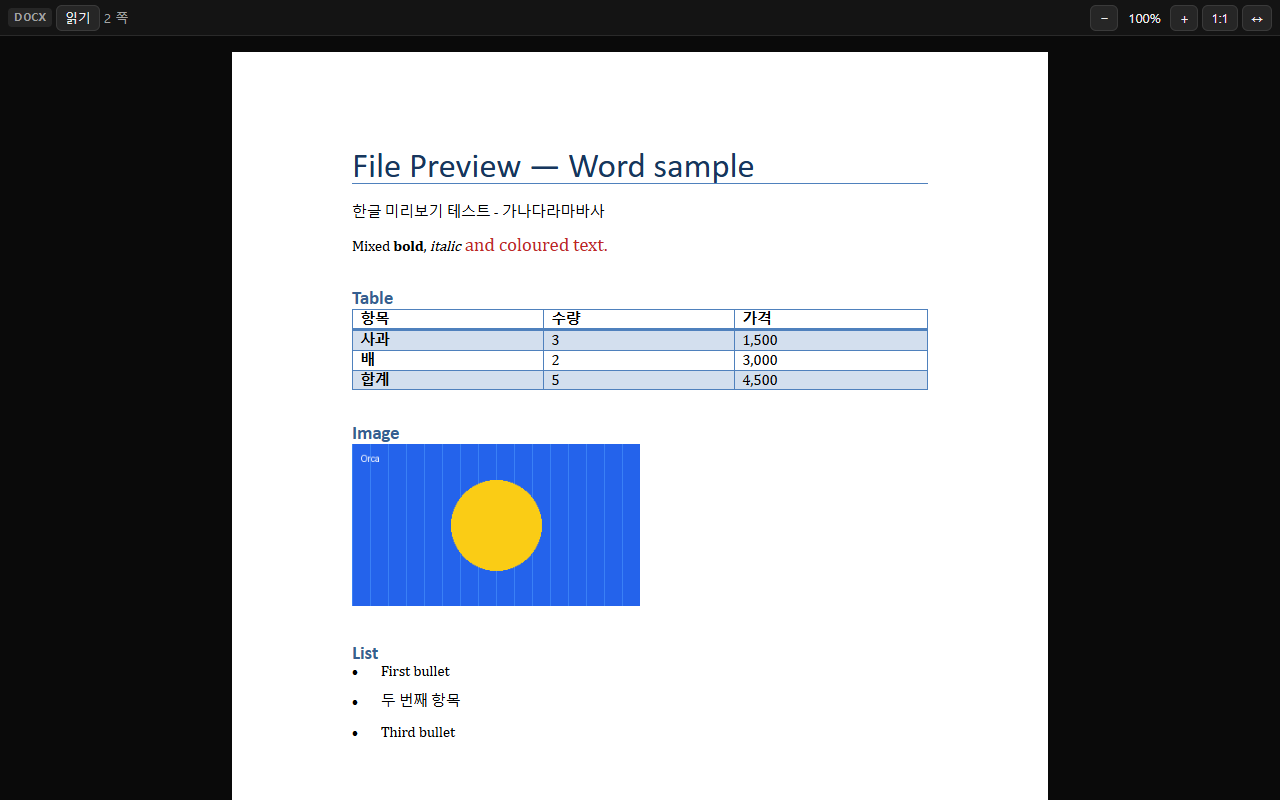
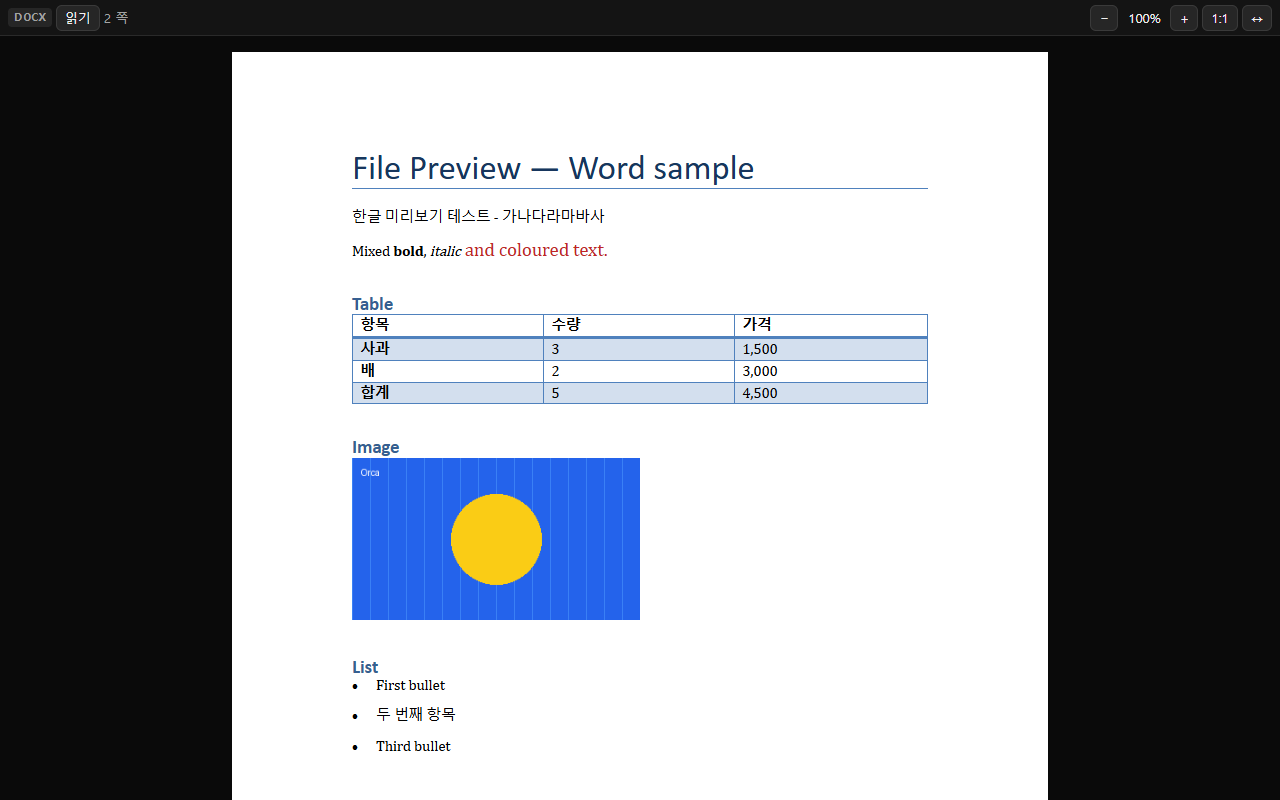
office: round-2 evidence and notes

Changed region(s): [[0.25, 0.1875, 0.75, 0.6562], [0.25, 0.8125, 0.375, 0.9375], [0.25, 0.6875, 0.5, 0.7812]]

diff --git a/docs/evidence/office/results.md b/docs/evidence/office/results.md
@@ -1,44 +1,44 @@
 # Harness results
 
-22 / 22 passed · 2026-11-12T06:14:31.897Z
+22 / 22 passed · 2026-11-12T06:47:20.613Z
 
 | Result | Profile | File | State | Time (ms) | Notes |
 | --- | --- | --- | --- | ---: | --- |
-| ✅ | desktop-dark | `broken.docx` | error (expect error) | 827 | console: Failed to load resource: the server responded with a status of 404 (Not Found)<br>console: Error: Corrupted zip: can't find end of central directory
-    at f.readEndOfCentral (http://127.0.0.1:4538/plugin/vendor/docx.js:2:32683)
+| ✅ | desktop-dark | `broken.docx` | error (expect error) | 821 | console: Failed to load resource: the server responded with a status of 404 (Not Found)<br>console: Error: Corrupted zip: can't find end of central directory
+    at f.readEndOfCentral (http://127.0.0.1:6689/plugin/vendor/docx.js:2:32683)
     at f.load<br>console: PreviewError: docx
-    at Module.render (http://127.0.0.1:4538/plugin/editor/renderers/docx.ts:65:11)
-    at async show (http://127.0.0.1:4538/plugin/e |
-| ✅ | desktop-dark | `broken.pptx` | error (expect error) | 771 | console: Error: invalid zip data
-    at Lr (http://127.0.0.1:4538/plugin/vendor/zip.js:1:5079)
-    at OoxmlPackage.open (http://127.0.0.1:4538/plugin/editor/ren<br>console: PreviewError: pptx
-    at Module.render (http://127.0.0.1:4538/plugin/editor/renderers/pptx.ts:45:11)
-    at show (http://127.0.0.1:4538/plugin/editor/ |
-| ✅ | desktop-dark | `sample-docx.doc` | ready (expect ready) | 824 |  |
-| ✅ | desktop-dark | `sample-large.xlsx` | ready (expect ready) | 981 |  |
-| ✅ | desktop-dark | `sample-pptx.ppt` | ready (expect ready) | 752 |  |
-| ✅ | desktop-dark | `sample-shapes.pptx` | ready (expect ready) | 765 |  |
-| ✅ | desktop-dark | `sample.docx` | ready (expect ready) | 792 |  |
-| ✅ | desktop-dark | `sample.ods` | ready (expect ready) | 760 |  |
-| ✅ | desktop-dark | `sample.pptx` | ready (expect ready) | 765 |  |
-| ✅ | desktop-dark | `sample.xls` | ready (expect ready) | 772 |  |
-| ✅ | desktop-dark | `sample.xlsx` | ready (expect ready) | 775 |  |
-| ✅ | mobile-light | `broken.docx` | error (expect error) | 770 | console: Error: Corrupted zip: can't find end of central directory
-    at f.readEndOfCentral (http://127.0.0.1:4538/plugin/vendor/docx.js:2:32683)
+    at Module.render (http://127.0.0.1:6689/plugin/editor/renderers/docx.ts:72:11)
+    at async show (http://127.0.0.1:6689/plugin/e |
+| ✅ | desktop-dark | `broken.pptx` | error (expect error) | 773 | console: Error: invalid zip data
+    at Lr (http://127.0.0.1:6689/plugin/vendor/zip.js:1:5079)
+    at OoxmlPackage.open (http://127.0.0.1:6689/plugin/editor/ren<br>console: PreviewError: pptx
+    at Module.render (http://127.0.0.1:6689/plugin/editor/renderers/pptx.ts:44:11)
+    at show (http://127.0.0.1:6689/plugin/editor/ |
+| ✅ | desktop-dark | `sample-docx.doc` | ready (expect ready) | 888 |  |
+| ✅ | desktop-dark | `sample-large.xlsx` | ready (expect ready) | 1108 |  |
+| ✅ | desktop-dark | `sample-pptx.ppt` | ready (expect ready) | 782 |  |
+| ✅ | desktop-dark | `sample-shapes.pptx` | ready (expect ready) | 775 |  |
+| ✅ | desktop-dark | `sample.docx` | ready (expect ready) | 823 |  |
+| ✅ | desktop-dark | `sample.ods` | ready (expect ready) | 896 |  |
+| ✅ | desktop-dark | `sample.pptx` | ready (expect ready) | 761 |  |
+| ✅ | desktop-dark | `sample.xls` | ready (expect ready) | 882 |  |
+| ✅ | desktop-dark | `sample.xlsx` | ready (expect ready) | 880 |  |
+| ✅ | mobile-light | `broken.docx` | error (expect error) | 773 | console: Error: Corrupted zip: can't find end of central directory
+    at f.readEndOfCentral (http://127.0.0.1:6689/plugin/vendor/docx.js:2:32683)
     at f.load<br>console: PreviewError: docx
-    at Module.render (http://127.0.0.1:4538/plugin/editor/renderers/docx.ts:65:11)
-    at async show (http://127.0.0.1:4538/plugin/e |
-| ✅ | mobile-light | `broken.pptx` | error (expect error) | 768 | console: Error: invalid zip data
-    at Lr (http://127.0.0.1:4538/plugin/vendor/zip.js:1:5079)
-    at OoxmlPackage.open (http://127.0.0.1:4538/plugin/editor/ren<br>console: PreviewError: pptx
-    at Module.render (http://127.0.0.1:4538/plugin/editor/renderers/pptx.ts:45:11)
-    at show (http://127.0.0.1:4538/plugin/editor/ |
-| ✅ | mobile-light | `sample-docx.doc` | ready (expect ready) | 811 |  |
-| ✅ | mobile-light | `sample-large.xlsx` | ready (expect ready) | 968 |  |
-| ✅ | mobile-light | `sample-pptx.ppt` | ready (expect ready) | 758 |  |
-| ✅ | mobile-light | `sample-shapes.pptx` | ready (expect ready) | 763 |  |
-| ✅ | mobile-light | `sample.docx` | ready (expect ready) | 825 |  |
-| ✅ | mobile-light | `sample.ods` | ready (expect ready) | 772 |  |
-| ✅ | mobile-light | `sample.pptx` | ready (expect ready) | 780 |  |
-| ✅ | mobile-light | `sample.xls` | ready (expect ready) | 771 |  |
-| ✅ | mobile-light | `sample.xlsx` | ready (expect ready) | 775 |  |
+    at Module.render (http://127.0.0.1:6689/plugin/editor/renderers/docx.ts:72:11)
+    at async show (http://127.0.0.1:6689/plugin/e |
+| ✅ | mobile-light | `broken.pptx` | error (expect error) | 777 | console: Error: invalid zip data
+    at Lr (http://127.0.0.1:6689/plugin/vendor/zip.js:1:5079)
+    at OoxmlPackage.open (http://127.0.0.1:6689/plugin/editor/ren<br>console: PreviewError: pptx
+    at Module.render (http://127.0.0.1:6689/plugin/editor/renderers/pptx.ts:44:11)
+    at show (http://127.0.0.1:6689/plugin/editor/ |
+| ✅ | mobile-light | `sample-docx.doc` | ready (expect ready) | 900 |  |
+| ✅ | mobile-light | `sample-large.xlsx` | ready (expect ready) | 1130 |  |
+| ✅ | mobile-light | `sample-pptx.ppt` | ready (expect ready) | 773 |  |
+| ✅ | mobile-light | `sample-shapes.pptx` | ready (expect ready) | 801 |  |
+| ✅ | mobile-light | `sample.docx` | ready (expect ready) | 864 |  |
+| ✅ | mobile-light | `sample.ods` | ready (expect ready) | 898 |  |
+| ✅ | mobile-light | `sample.pptx` | ready (expect ready) | 781 |  |
+| ✅ | mobile-light | `sample.xls` | ready (expect ready) | 885 |  |
+| ✅ | mobile-light | `sample.xlsx` | ready (expect ready) | 876 |  |

diff --git a/docs/evidence/office/NOTES.md b/docs/evidence/office/NOTES.md
@@ -161,3 +161,60 @@ contains `new Function`, on a path taken only when a string (not a function) is 
 `plugin/editor/renderers/office/{formula,formula.test,fonts,fonts.test}.ts` (new), `sheet.ts`, `docx.ts`,
 `pptx.ts`, `office/slides.ts`, `office/docx-fixes.ts` (new, R1-12/13/11), `plugin/vendor/sheet.d.ts` (adds `SSF.format` and `CellObject.z`; the bundle
 already exported SSF, so `npm run vendor` was not needed). No shared core files changed.
+
+## Round 2 fixes
+
+Verification: harness `--only docx,pptx,xls,ods --profiles desktop-dark,mobile-light` **22/22** (normal) and
+**22/22** with `--no-raf`; fuzz `node tools/make-fuzz.mjs && node tools/harness/run.mjs --dir samples/fuzz --fuzz
+--no-shots --profiles desktop-dark --timeout 15000 --only docx,pptx,xls,ods` → **70/70** (every damaged file ends
+ready or error, no timeouts, no page errors). Unit tests (`orca plugin test` on a C: copy): **24/24**.
+
+### R2-16 Damaged spreadsheets froze the page
+- SheetJS now parses in a module Web Worker, `plugin/editor/renderers/office/sheet-worker.js` (plain JS, so it
+  needs no TypeScript transpile; loaded with `new Worker(new URL('./office/sheet-worker.js', import.meta.url),
+  { type: 'module' })`, same pattern as the PDF worker). The bytes are copied and transferred.
+- The worker returns only what the grid needs: sheet names/hidden flags and, per sheet, `!ref`, merges, column/row
+  info and the cell values (`t v w f z`) for the rendered window (5,000 × 200). The window is recorded so the formula
+  evaluator treats cells outside it as unknown (formula stays uncalculated) instead of blank.
+- Time limit 10 s (below the harness's 15 s): the worker is terminated and the friendly error
+  "too complex or damaged to read in time" is shown. Aborting a render terminates the worker.
+- The worker posts `{ loaded: true }` on start; only if it fails *before* that (script cannot load) does the renderer
+  fall back to parsing on the main thread. A crash after loading is reported as a damaged file.
+- `samples/fuzz/sample-large.flip.xlsx` now ends in the error state after ~10.8 s with the page responsive.
+- DOCX/PPTX: no fuzzed .docx/.pptx froze (all settle well under the limit), so they stay on the main thread.
+
+### R2-6 DOCX reading layout polish
+- Page breaks are a thin dashed separator: empty paragraphs that end a page are hidden (`markSectionTails`), the next
+  page's first element loses its space-before, and the section top padding is 12 px (the ~100 px band is gone).
+- Headings keep 6 px below them in reading mode; table cells get 3 px top/bottom padding.
+- docx-preview's `line-height: 1.00` (Word "single") becomes 1.15, closer to Word's single spacing; Korean text no
+  longer touches cell borders (both layouts).
+- List markers: the marker box keeps the hanging-indent width but no longer renders docx-preview's tab with
+  `white-space: pre` (which expanded it to 8 spaces), so the text starts at the hanging indent (18 pt for this file's
+  List Bullet: left 360 / hanging 360, i.e. bullet at the margin, as in Word).
+
+### R2-7 Tinted theme colours
+- New `office/color.ts` (pure, unit-tested in `color.test.ts`): `tint`/`shade` are applied in linear RGB like Office
+  (`c' = c·t + (1−t)`, `c' = c·s`), `lumMod`/`lumOff`/`lum`, `satMod`/`satOff`/`sat`, `hue*` in HSL, `alpha*`,
+  per-channel `red/green/blueMod/Off`, `gray`, `inv`, `comp`. Black + tint 75 % → `#898989` (slide 1 subtitle now
+  matches the PDF); accent1 `4472C4` lighter 40 % → `#8FAADC`, darker 25 % → `#2F5597` (Office's values).
+
+### R2-8 Preset text rectangles
+- Text in ellipse, roundRect, triangle, rtTriangle, diamond, parallelogram, hexagon, homePlate, chevron,
+  right/leftArrow is laid out in the preset's text rectangle (from presetShapeDefinitions), then the bodyPr insets.
+  "Tri" now sits inside the triangle's lower half. The fixture's chevron is small (1.8″ wide with the default 50 %
+  notch), so its text rectangle is only ~0.4″ wide and "Chevron" breaks across lines, as PowerPoint does for words
+  that do not fit; it no longer crosses the notch.
+
+### R2-9 Formula marker
+- The calculated-cell marker is a 5 × 5 px corner drawn in the cell's padding box (no-repeat, clipped), so it never
+  overlaps borders. Tooltip unchanged.
+
+### R2-5 Slide frame
+- PPTX slides: white slide, `box-shadow: 0 1px 4px rgba(0,0,0,.25)`, no current-slide outline (the double grey
+  border is gone), caption under the left edge "3" or "3 · title" in small muted text (hidden slides add a tag).
+
+### Changed files (round 2)
+`plugin/editor/renderers/{docx,pptx,sheet}.ts`, `office/{docx-fixes,drawing,formula,formula.test,slides}.ts`,
+new `office/{color,color.test}.ts` and `office/sheet-worker.js`, `plugin/vendor/sheet.d.ts` (`!window`).
+No core/, main.ts or tools/ changes.
